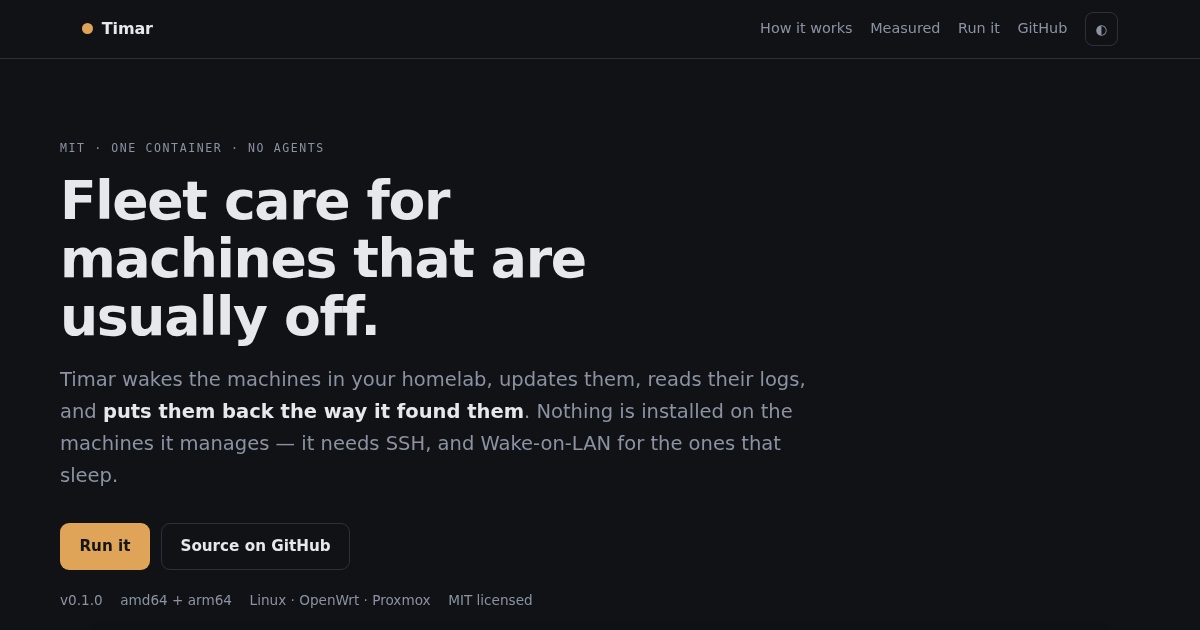
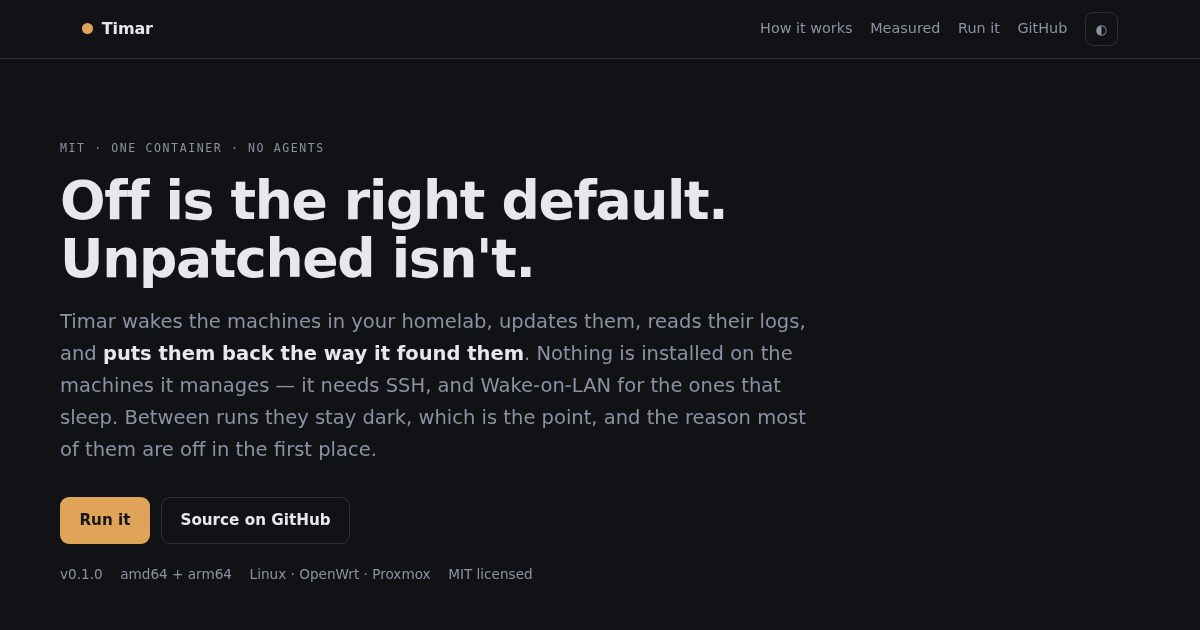
docs: say why the machines are off, not just that they are (#15)
The hero described the fleet ("machines that are usually off") without saying
that being off is a choice — the power bill and the carbon are why most of
these boxes sleep. The headline now names the tension the whole page argues
about: off is fine, unpatched is not.

og:title and og-cover.png carry the headline too — the cover is a capture of
the hero — so both are regenerated in step, per the note in <head>.

Changed region(s): [[0.0308, 0.2714, 0.6783, 0.9651]]

diff --git a/docs/index.html b/docs/index.html
@@ -11,7 +11,7 @@
 <meta property="og:url" content="https://timar.tools/" />
 <!-- Keep in step with the <h1>: a share card renders og:title right beside og:image, and
      og:image is a capture of the hero. A stale title puts two different headlines in one card. -->
-<meta property="og:title" content="Timar — fleet care for machines that are usually off" />
+<meta property="og:title" content="Timar — off is the right default, unpatched isn't" />
 <meta property="og:description" content="Wake, update, sweep the logs, shut back down. Agentless: SSH and Wake-on-LAN, nothing installed on the machines you manage. Linux, OpenWrt and Proxmox. MIT." />
 <meta property="og:image" content="https://timar.tools/images/og-cover.png" />
 <meta property="og:image:width" content="1200" />
@@ -210,11 +210,12 @@
 
 <div class="wrap hero">
   <p class="eyebrow">MIT · one container · no agents</p>
-  <h1>Fleet care for machines that are usually off.</h1>
+  <h1>Off is the right default. Unpatched isn't.</h1>
   <p class="lede">
     Timar wakes the machines in your homelab, updates them, reads their logs, and
     <strong>puts them back the way it found them</strong>. Nothing is installed on the machines
-    it manages — it needs SSH, and Wake-on-LAN for the ones that sleep.
+    it manages — it needs SSH, and Wake-on-LAN for the ones that sleep. Between runs they stay
+    dark, which is the point, and the reason most of them are off in the first place.
   </p>
 
   <div class="cta">
